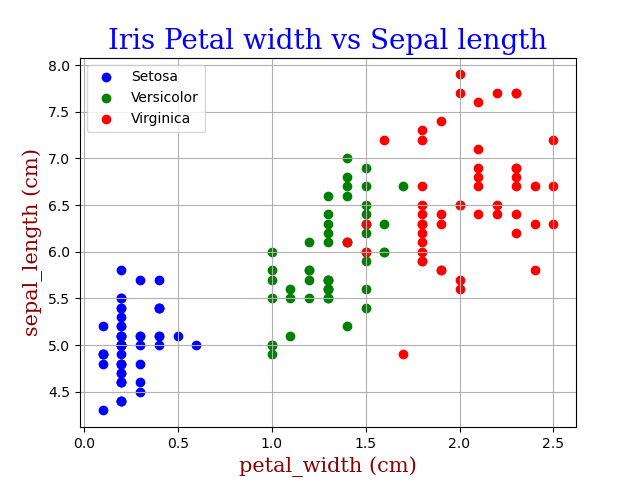
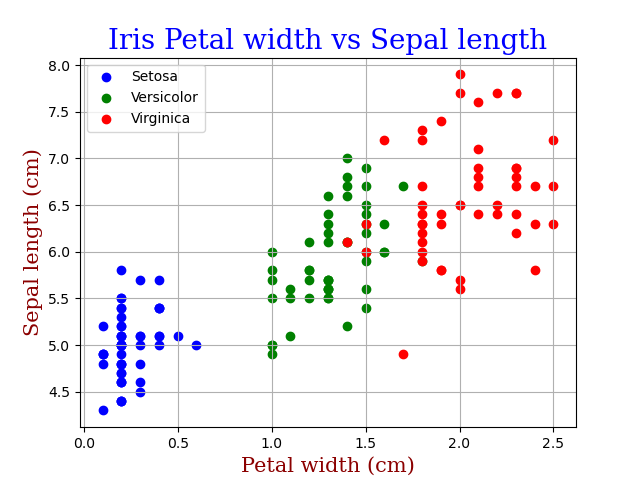
Working on histogram plots

Changed region(s): [[0.375, 0.9375, 0.6562, 1.0], [0.0312, 0.3125, 0.0625, 0.7188]]

diff --git a/analysis.py b/analysis.py
@@ -111,20 +111,20 @@ def create_histogram(df, variable): #The function takes in two parameters, the d
 
     #Create the histogram for the same variable for each species on the one plot. Therefore three histograms will be 
     #created on the same plot.
-    ax.hist(setosa[variable], bins=10, label="Setosa", color="blue", alpha=0.5) #The alpha parameter is used to make the bars transparent
-    ax.hist(versicolor[variable], bins=10, label="Versicolor", color="green", alpha=0.5)
-    ax.hist(virginica[variable], bins=10, label="Virginica", color="red", alpha=0.5)
+    ax.hist(setosa[variable], bins=10, label="Setosa", color="blue", alpha=0.5, edgecolor='black') #The alpha parameter is used to make the bars transparent
+    ax.hist(versicolor[variable], bins=10, label="Versicolor", color="green", alpha=0.5, edgecolor='black')
+    ax.hist(virginica[variable], bins=10, label="Virginica", color="red", alpha=0.5, edgecolor='black')
 
     #Set the font for the x and y axis labels and the title (https://www.w3schools.com/python/matplotlib_labels.asp)
     font1 = {'family':'serif','color':'blue','size':20}
     font2 = {'family':'serif','color':'darkred','size':15}
 
     #Set the x and y axis labels
-    ax.set_xlabel(variable, fontdict=font2)
+    ax.set_xlabel(variable.capitalize().replace('_', ' '), fontdict=font2)
     ax.set_ylabel("Frequency", fontdict=font2)
     
     #Add a title
-    ax.set_title(variable, fontdict=font1)
+    ax.set_title(variable.capitalize().replace('_', ' '), fontdict=font1)
 
     #Add a legend
     ax.legend()
@@ -159,8 +159,8 @@ def create_scatter_plot(df, x, y): #The function takes in three parameters, the 
     font2 = {'family':'serif','color':'darkred','size':15}
 
     #Set the x and y axis labels
-    ax.set_xlabel(x + " (cm)", fontdict=font2)
-    ax.set_ylabel(y + " (cm)", fontdict=font2)
+    ax.set_xlabel(x.capitalize().replace('_', ' ')+ " (cm)", fontdict=font2)
+    ax.set_ylabel(y.capitalize().replace('_', ' ') + " (cm)", fontdict=font2)
 
     #Add a grid
     ax.grid()
